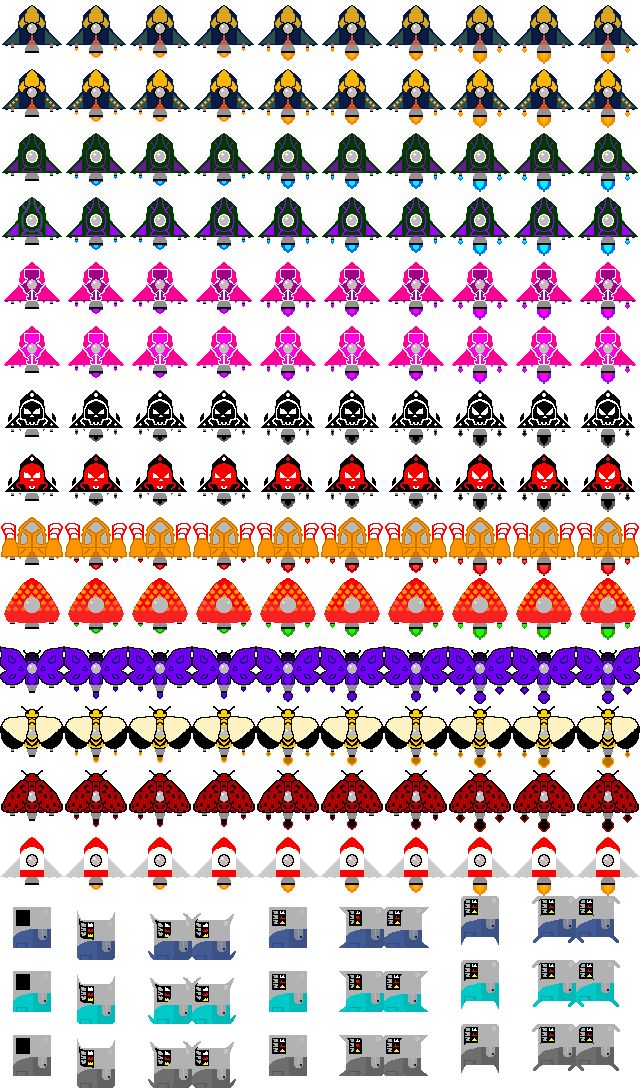
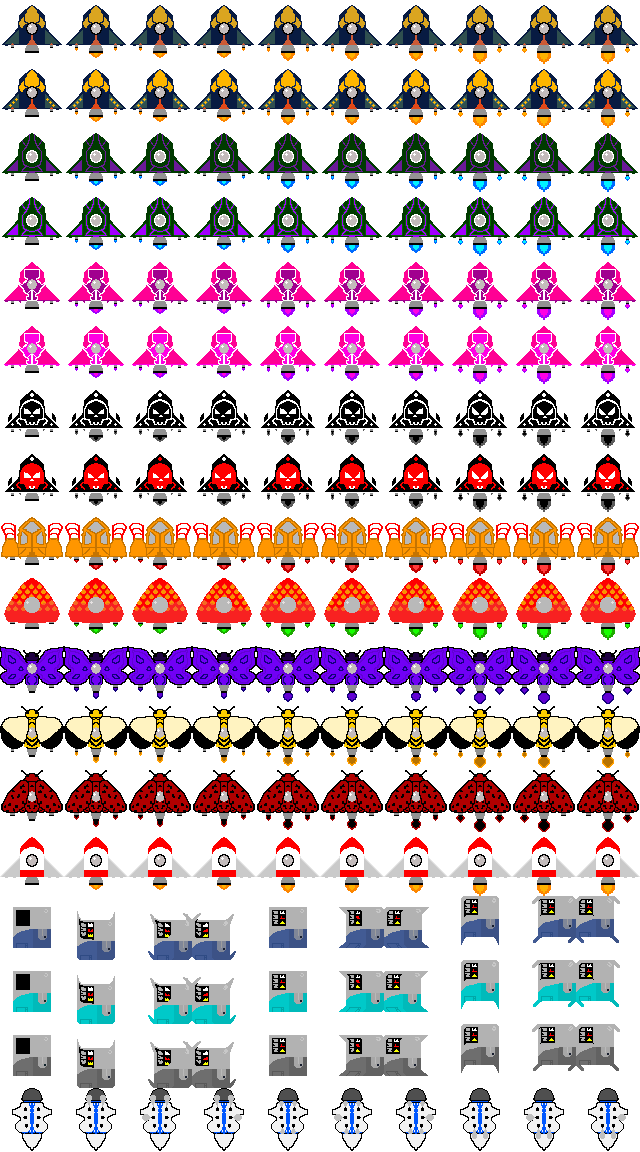
adicionado os sprites de morte das naves e ajustado o movimento e ataque pra ocorrer so quando a nave estiver viva

diff --git a/modulos/personagens/Player.py b/modulos/personagens/Player.py
@@ -11,6 +11,9 @@ class Player(Nave):
     #adicionando os sprites de animação
     self.skin = skin
     self.alternar_skin = 0
+
+    #sprites normais
+    #até a 4 skin tem animação de tiro diferente, o resto não
     self.img_anim = []
     if self.skin<8:
       for i in range(20):
@@ -18,31 +21,38 @@ class Player(Nave):
     else:
       for i in range(10):
         self.img_anim.append(pygame.image.load("imagens/jogadores/naves.png").subsurface((i%10*64,self.skin*64),(64,64)).convert_alpha())
+    
+    #sprites de morte
     self.index_morte = 0
     self.img_anim_morte = []
     if self.skin<8:
+      #sprites pros modelos com animação de tiro
       for i in range(4):
-        print(i*64,(self.skin//2)*64)
         self.img_anim_morte.append(pygame.image.load("imagens/morte/morte_naves.png").subsurface((i*64,(self.skin//2)*64),(64,64)).convert_alpha())
     else:
+      #sprites pros modelos sem animação de tiro
       for i in range(4):
-        self.img_anim_morte.append(pygame.image.load("imagens/morte/morte_naves.png").subsurface((i*64,self.skin*64),(64,64)).convert_alpha())
-    #deinfindo o sprite inicial
-    print(self.img_anim_morte)
+        self.img_anim_morte.append(pygame.image.load("imagens/morte/morte_naves.png").subsurface((i*64,(self.skin-4)*64),(64,64)).convert_alpha())
+    
+    #definindo o sprite inicial
     super().__init__(VIDA_PLAYER,(250,250),self.img_anim[0])
+    
     #grupo de sprites tiro
     self.tiros = pygame.sprite.Group()
+    
     #auxilio visual para vida
     self.boxVida = pygame.Rect(posição_vida,25,self.vida,10)
+    
     #total de pontos do jogador
     self.pontos = 0
-    #esolha da munnição
+    
+    #escolha da munição
     self.tipo_mun = [True, False, False, False, False]
     self.index_mun = 0
     
 
   def atacar(self)->None:
-    #analisa a mutição ativa, cria objetos do tiro e adiciona ao grupo
+    #analisa se o jogador está vivo, a munição ativa, cria objetos do tiro e adiciona ao grupo
     if self.vida>0:
       if self.skin < 8:
         self.alternar_skin = 10
@@ -61,9 +71,10 @@ class Player(Nave):
 
 
   def mover(self,velocidade:int)->None:
+    #analisa se o jogador ta vivo e faz o movimento mudando a sprite conforme movimento
     if self.vida>0:
 
-      proporção=(screen.get_height()//7,screen.get_height()//7)
+      proporção=(screen.get_height()//6,screen.get_height()//6)
 
       #ajusta a animação dependendo do movimento
       if velocidade[0] < 0 and velocidade[1] < 0:
@@ -112,8 +123,6 @@ class Player(Nave):
     
     
   def update(self,aliens:pygame.sprite.Group)->None:
-    proporção=(screen.get_height()//7,screen.get_height()//7)
-
     #mostra na tela a vida do jogador
     self.boxVida.update(self.boxVida.left,25,self.vida*2, 20)
     pygame.draw.rect(screen,(255,0,0),self.boxVida)
@@ -141,9 +150,9 @@ class Player(Nave):
     self.alternar_skin = 0
     #verifica se morreu e não tem o qque fazer quando morre, se pa voltar pro menu inicial
     if self.vida <= 0:
-      self.index_morte+=0.3
+      proporção=(screen.get_height()//6,screen.get_height()//6)
+      self.index_morte+=0.37
       self.image=pygame.transform.scale(self.img_anim_morte[int(self.index_morte)], proporção)
-      print(int(self.index_morte), self.index_morte)
-      if self.index_morte>3.3:
+      if self.index_morte>=3.6:
         self.kill()
     

diff --git a/modulos/janelas/Janelas.py b/modulos/janelas/Janelas.py
@@ -6,8 +6,8 @@ from modulos.personagens.Player import Player
 import math
 
 #criação do sprite do jogador e inimigos
-player = Player(screen.get_width()-150, 0)
-player2 = Player(25, 2)
+player = Player(screen.get_width()-150, 17)
+player2 = Player(25, 16)
 players = pygame.sprite.Group()
 players.add(player)
 players.add(player2)
